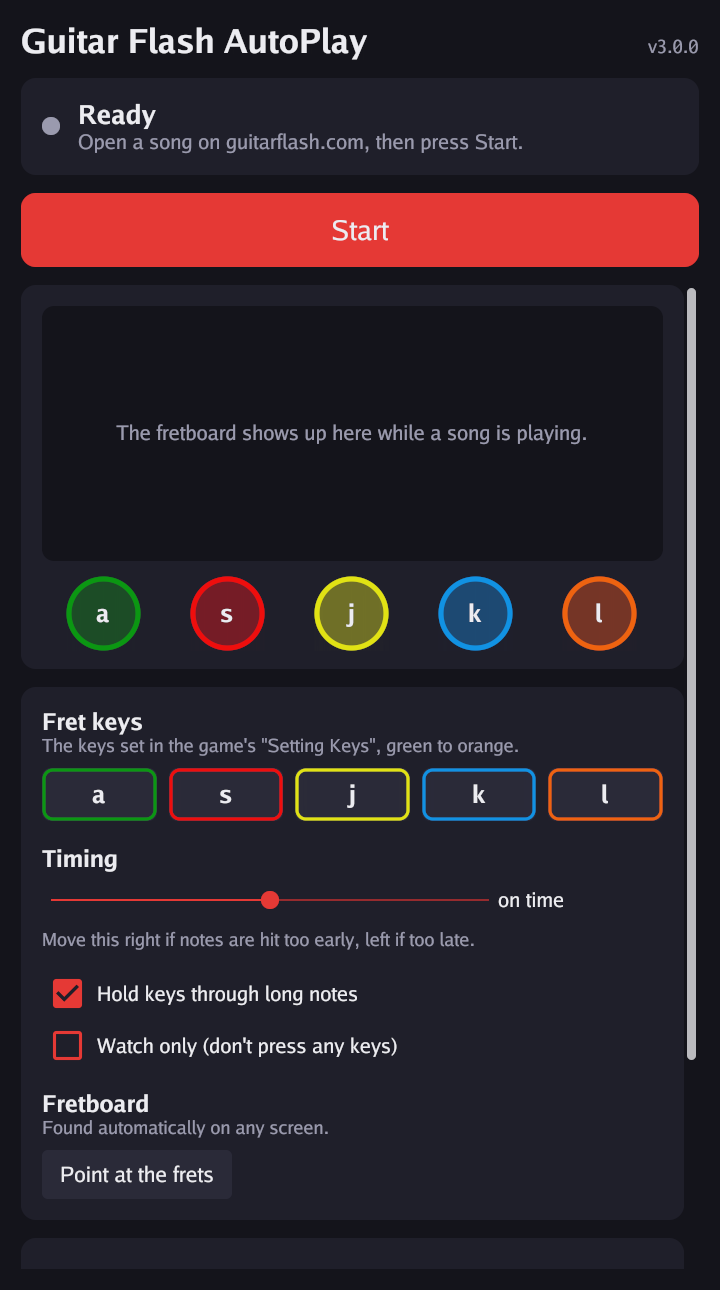
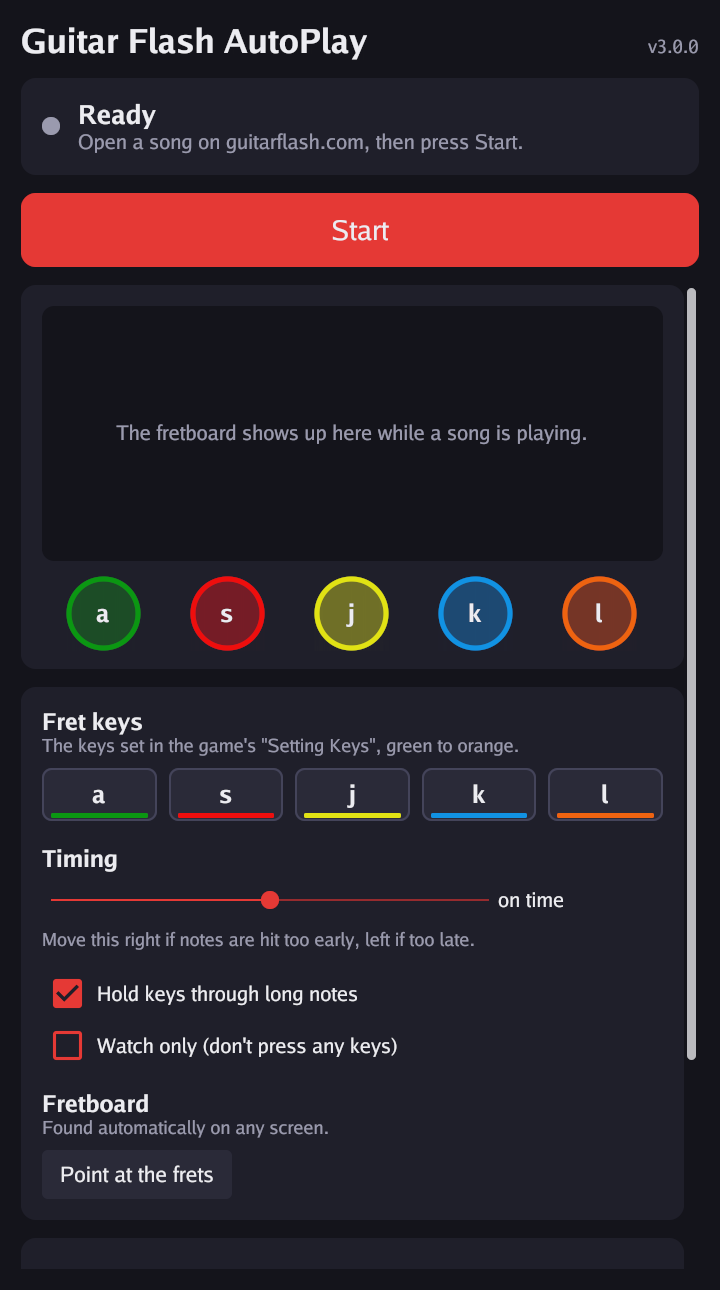
Stop the app from finding a fretboard in its own window
In a live test the app, searching for the next song, found a fretboard in
its own window: the five key fields were outlined in the fret colours and
evenly spaced, like fret rings. A board now only counts when the white
edges of the highway are beside it, the key fields show their colour as a
solid bar instead of an outline, and the preview is cleared when the
player stops.

Claude-Session: https://claude.ai/code/session_01YNRZtxY1BR5BqQziFTubqf

Changed region(s): [[0.0611, 0.5891, 0.9167, 0.6512]]

diff --git a/internal/vision/board.go b/internal/vision/board.go
@@ -93,8 +93,11 @@ func FindBoard(img *image.RGBA) (Board, error) {
 		}
 	}
 
-	best := Board{}
-	bestErr := math.Inf(1)
+	type candidate struct {
+		b   Board
+		err float64
+	}
+	var found []candidate
 	// Any two rings define a candidate line; the others must line up with it.
 	// Using every pair means one covered-up ring does not break detection.
 	for i := 0; i < 5; i++ {
@@ -111,18 +114,53 @@ func FindBoard(img *image.RGBA) (Board, error) {
 					if a.w() < 0.7*s || a.w() > 1.2*s {
 						continue
 					}
-					board, fitErr, ok := fitBoard(cands, a, i, s)
-					if ok && (board.Found > best.Found || (board.Found == best.Found && fitErr < bestErr)) {
-						best, bestErr = board, fitErr
+					if board, fitErr, ok := fitBoard(cands, a, i, s); ok {
+						found = append(found, candidate{board, fitErr})
 					}
 				}
 			}
 		}
 	}
-	if best.Found < 4 {
-		return Board{}, ErrNotFound
+	// The best line of rings that sits at the bottom of a highway: five
+	// coloured boxes elsewhere on the screen (this app's own window has some)
+	// have no highway around them.
+	sort.Slice(found, func(i, j int) bool {
+		if found[i].b.Found != found[j].b.Found {
+			return found[i].b.Found > found[j].b.Found
+		}
+		return found[i].err < found[j].err
+	})
+	for _, c := range found {
+		if hasHighway(img, c.b) {
+			return c.b, nil
+		}
 	}
-	return best, nil
+	return Board{}, ErrNotFound
+}
+
+// HighwayHalfWidth is half the width of the highway at the fret line, in
+// fret spacings; its white edges are there.
+const HighwayHalfWidth = 2.48
+
+// hasHighway checks for the white edges of the highway on both sides of
+// the frets, a little above them.
+func hasHighway(img *image.RGBA, b Board) bool {
+	hits := 0
+	for _, h := range []float64{0.5, 0.9, 1.3} {
+		y := int(math.Round(b.RowY(h)))
+		half := HighwayHalfWidth * b.Spacing * b.Scale(h)
+		tol := 0.06*b.Spacing + 2
+		for _, side := range []float64{-1, 1} {
+			x := b.FretX(2) + side*half
+			for px := int(x - tol); px <= int(x+tol); px++ {
+				if r, g, bb, ok := rgbAt(img, px, y); ok && min(r, g, bb) >= 180 {
+					hits++
+					break
+				}
+			}
+		}
+	}
+	return hits >= 4
 }
 
 // fitBoard collects the ring of every colour closest to where it should be,

diff --git a/internal/vision/vision_test.go b/internal/vision/vision_test.go
@@ -60,9 +60,15 @@ func (s scene) render() *image.RGBA {
 		if h < -0.6 || h > 3.5 {
 			continue
 		}
-		half := 2.48 * sp * b.Scale(h)
+		half := HighwayHalfWidth * sp * b.Scale(h)
 		for x := int(b.FretX(2) - half); x <= int(b.FretX(2)+half); x++ {
 			set(img, x, y, color.RGBA{33, 33, 33, 255})
+		}
+		// The white edges of the highway.
+		edge := int(math.Max(1, 0.03*sp))
+		for d := -edge; d <= edge; d++ {
+			set(img, int(b.FretX(2)-half)+d, y, color.RGBA{232, 234, 235, 255})
+			set(img, int(b.FretX(2)+half)+d, y, color.RGBA{232, 234, 235, 255})
 		}
 	}
 	for k := 0; k < 5; k++ {
@@ -236,6 +242,20 @@ func TestLanesConverge(t *testing.T) {
 	}
 	if got, want := b.LaneX(0, VanishHeight), b.FretX(2); math.Abs(got-want) > 1e-9 {
 		t.Errorf("lanes meet at x=%v, want %v", got, want)
+	}
+}
+
+func TestFindBoardIgnoresBoxesWithoutHighway(t *testing.T) {
+	// Five outlined boxes in the fret colours, like the key fields in this
+	// app's own window, must not pass for a fretboard.
+	img := newScene(900, 500, -1000, -1000, 50).render()
+	for k := 0; k < 5; k++ {
+		x := 100 + 140*k
+		fillRect(img, image.Rect(x, 200, x+110, 245), laneRGB[k])
+		fillRect(img, image.Rect(x+3, 203, x+107, 242), color.RGBA{42, 42, 56, 255})
+	}
+	if b, err := FindBoard(img); err != ErrNotFound {
+		t.Fatalf("got %v, %v; want ErrNotFound", b, err)
 	}
 }
 

diff --git a/internal/ui/layout.go b/internal/ui/layout.go
@@ -325,12 +325,18 @@ func (u *UI) keyEditors(gtx C) D {
 			children = append(children, layout.Rigid(layout.Spacer{Width: unit.Dp(8)}.Layout))
 		}
 		children = append(children, layout.Flexed(1, func(gtx C) D {
-			return widget.Border{Color: fretColors[k], CornerRadius: unit.Dp(6), Width: unit.Dp(2)}.Layout(gtx, func(gtx C) D {
+			// A plain border with a solid colour bar, not a coloured outline:
+			// five outlined boxes in the fret colours would look like fret
+			// rings to the detector.
+			return widget.Border{Color: colStop, CornerRadius: unit.Dp(6), Width: unit.Dp(1)}.Layout(gtx, func(gtx C) D {
 				return layout.Stack{}.Layout(gtx,
 					layout.Expanded(func(gtx C) D {
-						rect := image.Rectangle{Max: gtx.Constraints.Min}
+						size := gtx.Constraints.Min
+						rect := image.Rectangle{Max: size}
 						paint.FillShape(gtx.Ops, colField, clip.UniformRRect(rect, gtx.Dp(6)).Op(gtx.Ops))
-						return D{Size: gtx.Constraints.Min}
+						bar := image.Rect(gtx.Dp(6), size.Y-gtx.Dp(5), size.X-gtx.Dp(6), size.Y-gtx.Dp(2))
+						paint.FillShape(gtx.Ops, fretColors[k], clip.UniformRRect(bar, gtx.Dp(1)).Op(gtx.Ops))
+						return D{Size: size}
 					}),
 					layout.Stacked(func(gtx C) D {
 						gtx.Constraints.Min.X = gtx.Constraints.Max.X

diff --git a/internal/ui/ui.go b/internal/ui/ui.go
@@ -274,7 +274,7 @@ func (u *UI) start() {
 			u.log("Stopped.")
 		}
 		u.mu.Lock()
-		u.st.running = false
+		u.st.running, u.st.hasPreview = false, false
 		u.st.keyDown = [5]bool{}
 		u.cancel = nil
 		u.mu.Unlock()
